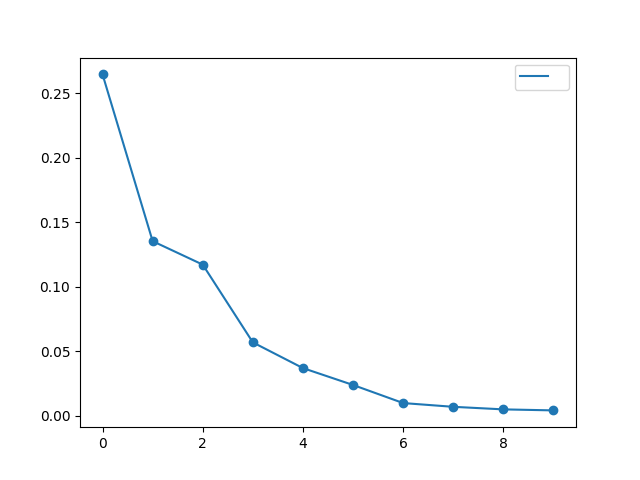
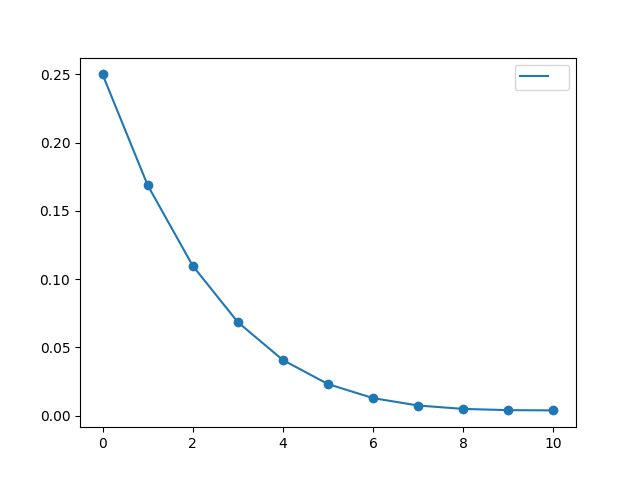
new results

diff --git a/main.py b/main.py
@@ -464,8 +464,8 @@ def run_gr_W2_10_Nu2_Minf_Na20():
     draw_n(reslist, range(9))
     
 def run_lr_W4_p0_1_Minf():
-    reslist = np.zeros(10)
-    for p in range(10):
+    reslist = np.zeros(11)
+    for p in range(11):
             reslist[p] += random_m4_estimation(
                 rho=noisy_W(4, float(p)/10).to(device),
                 na=2,
@@ -478,12 +478,12 @@ def run_lr_W4_p0_1_Minf():
                 qU=qU,
                 N_average=100,
             ).sum()
-    np.save("./output_new/lr_W4_p0_1_M", reslist)
-    draw_nolog(reslist, range(10))
+    np.save("./output_new/lr_W4_p0_1_Minf", reslist)
+    draw_nolog(reslist, range(11))
     
 def run_lr_W4_p0_1_M10():
-    reslist = np.zeros(10)
-    for p in range(10):
+    reslist = np.zeros(11)
+    for p in range(11):
             reslist[p] += random_m4_estimation(
                 rho=noisy_W(4, float(p)/10).to(device),
                 na=2,
@@ -497,11 +497,11 @@ def run_lr_W4_p0_1_M10():
                 N_average=100,
             ).sum()
     np.save("./output_new/lr_W4_p0_1_M10", reslist)
-    draw_nolog(reslist, range(10))
+    draw_nolog(reslist, range(11))
     
 def run_lr_W4_p0_1_M20():
-    reslist = np.zeros(10)
-    for p in range(10):
+    reslist = np.zeros(11)
+    for p in range(11):
             reslist[p] += random_m4_estimation(
                 rho=noisy_W(4, float(p)/10).to(device),
                 na=2,
@@ -515,17 +515,20 @@ def run_lr_W4_p0_1_M20():
                 N_average=100,
             ).sum()
     np.save("./output_new/lr_W4_p0_1_M20", reslist)
-    draw_nolog(reslist, range(10))
+    draw_nolog(reslist, range(11))
     
 def run_exact_W4_p0_1():
-    reslist = np.zeros(10)
-    for p in range(10):
+    reslist = np.zeros(11)
+    for p in range(11):
         rho=noisy_W(4, float(p)/10).to(device)
         na=2
         r = realignment(rho, na)
         reslist[p]+= th.trace(th.mm(th.mm(r, th.conj(r).T), th.mm(r, th.conj(r).T)))
     np.save("./output_new/exact_W4_p0_1", reslist)
-    draw_nolog(reslist, range(10))
+    draw_nolog(reslist, range(11))
 if __name__ == "__main__":
     run_lr_W4_p0_1_Minf()
+    run_lr_W4_p0_1_M10()
+    run_lr_W4_p0_1_M20()
+    run_exact_W4_p0_1()
     terminate()
